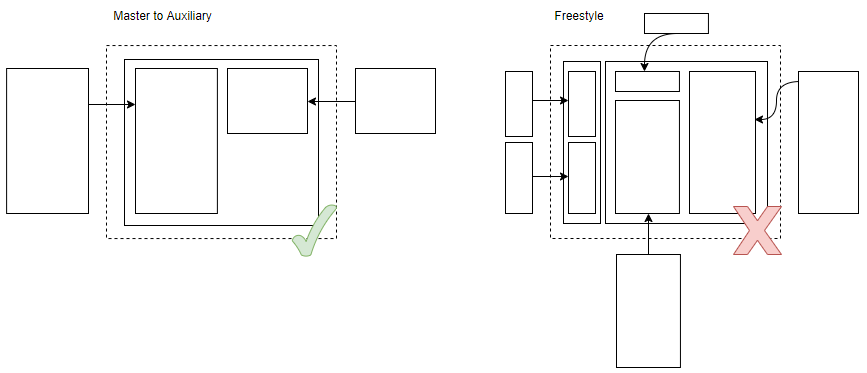
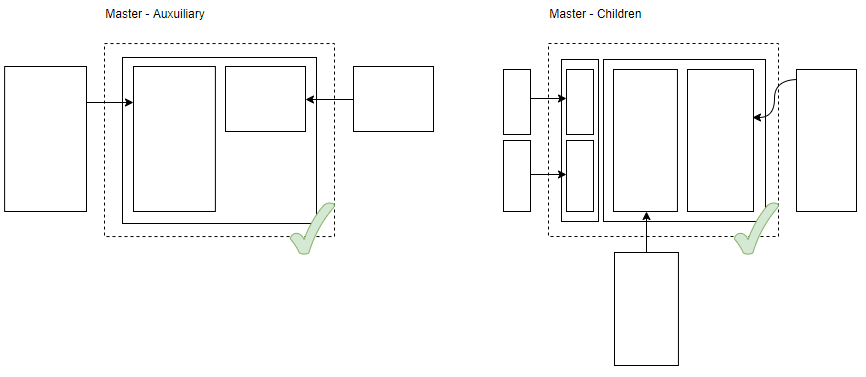
Added Images

diff --git a/README.md b/README.md
@@ -416,16 +416,22 @@ but can be crucial to desktop applications. For more information about REST data
 
 ## Navigation Patterns
 
-As mentioned before, the Angular router module is a strict resource-oriented engine (HATEOAS) where we have only limited possibilities with regards 
-to arbitrary interaction and navigation patterns. The most commonly used navigation patterns are master-master and master-details: 
+As mentioned before, the Angular router module is a strict resource-oriented engine (HATEOAS) where we have limited possibilities with regards 
+to arbitrary interaction and navigation patterns. The most commonly used navigation patterns are master - master and master - details: 
 
 ![alt text](https://raw.githubusercontent.com/bilgino/ng4StarterKit/master/src/assets/images/Master2Details.PNG)
 
-Indeed auxiliary/secondary routes allows us to activate additional components on the equal path, but bringing limitations and sacrifices to a non-standard URL pattern. 
-A custom router module or an internal API like the `ComponentFactoryResolver` may help to counteract a freestyle approach by creating
-and loading components dynamically outside of the router context. The router module is therefore appropriate only for mobile devices such as tablets and smart phones. 
+Indeed secondary (auxiliary) and componentless (master - children) routes allows us to initiate multiple components on an equal path, 
+but bringing limitations and sacrifices to a non-standard URL pattern that does not comply with REST URLs. 
 
 ![alt text](https://raw.githubusercontent.com/bilgino/ng4StarterKit/master/src/assets/images/Master2Aux.PNG)
+
+Applying a freestyle approach in which we can load only several components on random places at the same time is not possible. 
+
+![alt text](https://raw.githubusercontent.com/bilgino/ng4StarterKit/master/src/assets/images/Freestyle.PNG)
+
+A custom router module or an internal API like the `ComponentFactoryResolver` may help to counteract a freestyle approach by creating
+and loading components dynamically outside of the router context. The router module is therefore appropriate for mobile devices such as tablets and smart phones. 
 
 # Summary
 
